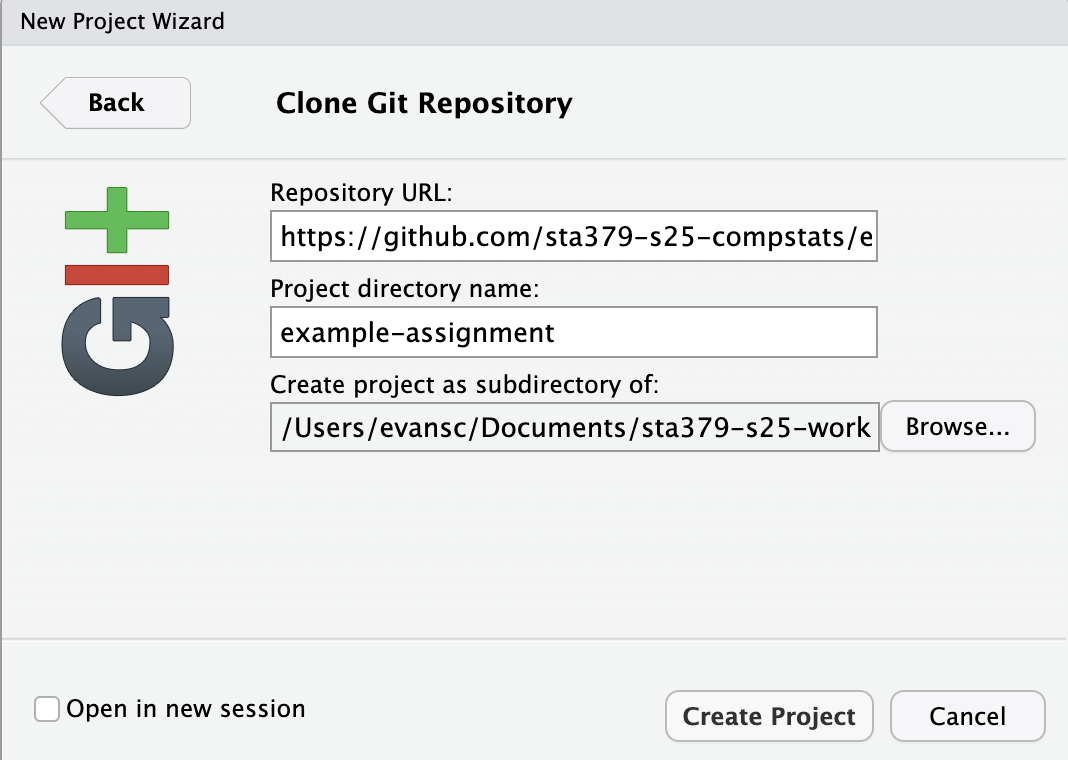
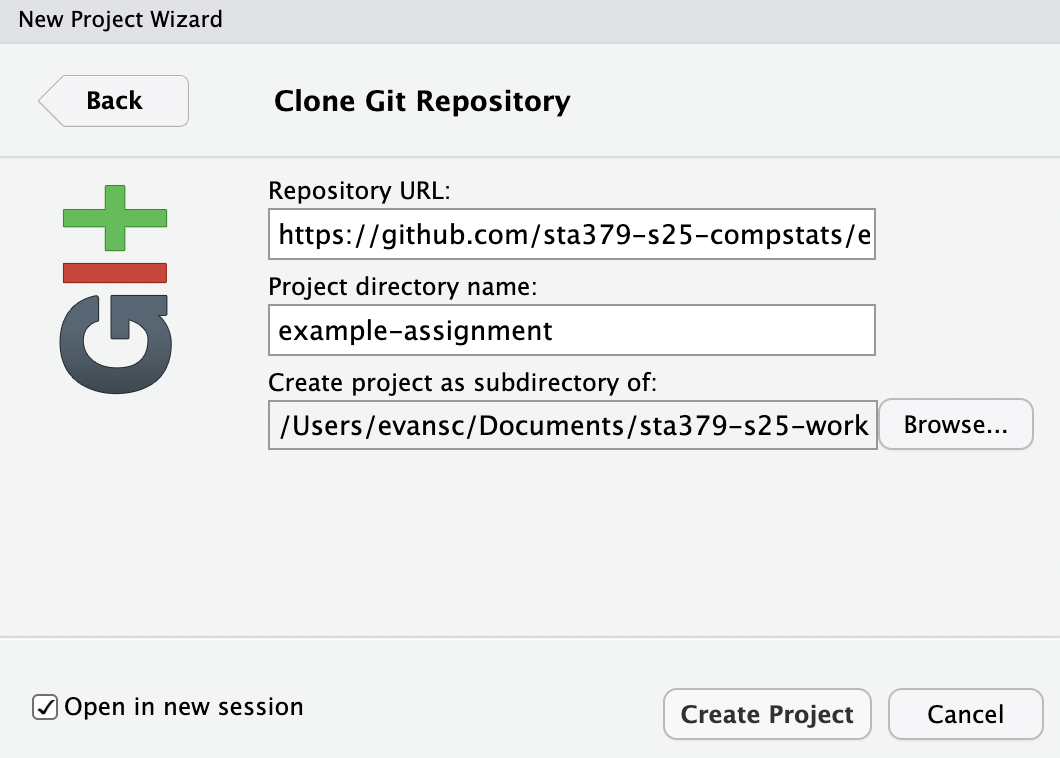
pull instructions

diff --git a/resources/github_instructions.md b/resources/github_instructions.md
@@ -87,9 +87,26 @@ The project wizard will then ask for Git repository info.
 * Paste the URL you copied from GitHub into the "Repository URL" field. 
 * Under "Project directory name:", enter the assignment name (e.g., `example-assignment`). 
 * Under "Create project as subdirectory of:", browse and select the folder on your local computer that you created for your work in this class (e.g., `Documents/sta379-s25-work`). 
-* Select 
+* Select "Open in new session"
 * Then click "Create Project".
 
 <img src="github_instruction_pictures/new_project_wizard_directory_info.png" width="30%"/>
+
+This will clone the repository from GitHub to your local computer, and will create a new R project in that repository. This project will then be opened as a new RStudio session on your computer. In the new RStudio session, click the Files viewer (next to Plots, in one of the four panes). You should see the files for the example assignment repository:
+
+<img src="github_instruction_pictures/new_project_file_listing.png" width="30%"/>
+
+
+#### Step 6: Pull
+
+In one of the panes on RStudio, you should see a *Git* tab, which has the Git tools (pull, staging, commit, and push) that we will use to save work and interact with GitHub:
+
+<img src="github_instruction_pictures/new_assignment_pull_first.png" width="30%"/>
+
+Before doing work in the repository, pull from the remote GitHub repository (click the "Pull" arrow, pointing down). Try to make this a habit whenever you start work on an assignment, or go back to an assignment you have worked on previously. If you are the only one making changes to a repository, and you are only using one computer, then it won't really matter, but it is still a good habit for the future. However, if you are working on the same code across multiple computers, or collaborating with other people, then pulling first is very important!
+
+Because nothing has changed on the remote repository, you will get a message saying everything is up to date:
+
+<img src="github_instruction_pictures/new_assignment_pull_uptodate.png" width="30%"/>
 
 
